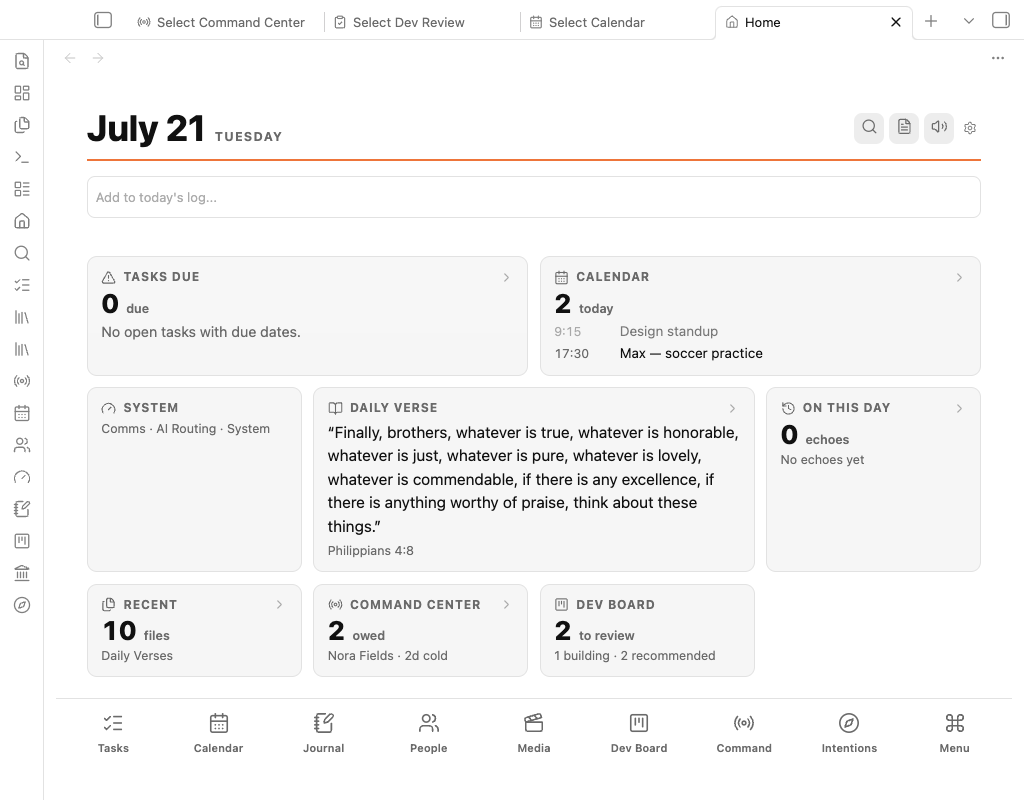
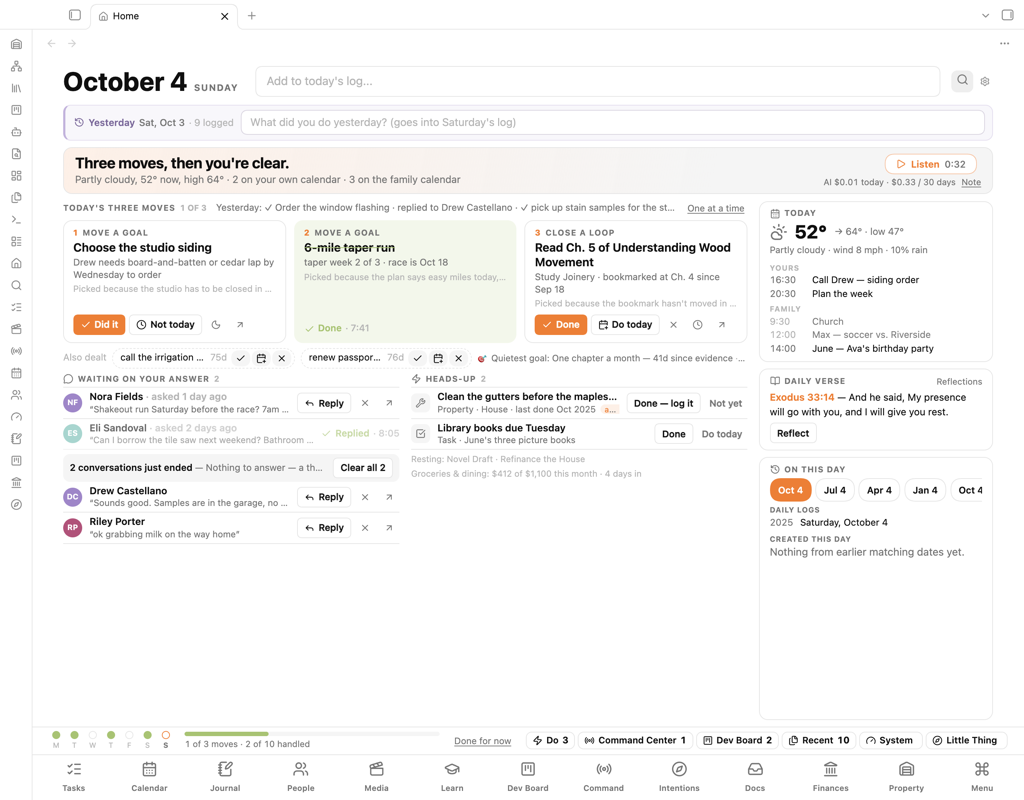
Vault edit auto-published
Source: 6. Notes/Select Showcase Site/ (showcase_publish.py)

diff --git a/SUBSYSTEMS.md b/SUBSYSTEMS.md
@@ -38,6 +38,10 @@ The oldest subsystem and the origin of the whole project. Share a link from any 
 
 ![Media Library](media/media-library.png)
 
+**Theater**, the lean-back player — every saved video, post, and clip in one stage, with stars, tags, and *up next* a tap away:
+
+![Media Log Theater](media/media-theater.png)
+
 > 🎬 coming: phone share → item appears in the library
 
 ## Select Media
@@ -114,9 +118,27 @@ Raw institution exports drop into a watched inbox folder; adapters normalize the
 
 *Everything is an asset.* Every house system, vehicle, appliance, and tool is a plain note with a stable grammar, and the property app is a dossier for each one. The first card on every page answers the question asked while standing in front of the thing — **what does it take?** — filter sizes, oil grade, fuel, battery, with tap-to-copy specs and a *confirm* flag where sources disagree (the page shows the conflict and what would settle it, rather than picking a winner). Official manufacturer manuals sit one tap away on their own card.
 
+![Select Property — What I have](media/property-have.png)
+
+Each thing's dossier leads with what it takes, then its manuals, its age against its typical life, and one timeline of service, issues, and papers:
+
+![Select Property — a dossier](media/property-dossier.png)
+
 Its September app review found it had heard nothing through its own doors in two months, so version 2.0 was rebuilt to **listen**: it notices upkeep in checked tasks, text messages, payments, and filed papers, and asks a single question in the morning brief before going quiet. Then it learned to **see**. A photo texted about an item lands on that item's page; a photo of a rating plate fills in make, model, and serial; a close-up of a filter edge or battery label confirms or corrects the consumable spec — all through one existing vision pass whose fixed output lines are parsed by code, never overwriting a value without a yes. Large purchases from the ledger with no record behind them prompt *start a record?*, and loans show what's still owed.
 
 The last page is **the land**: every map layer, historical aerials back to 1938, recorded walks, and survey lines in one coordinate frame, with tap-to-read elevation and soil; a walkable field guide for finding an old survey's corners; and a history tab that traces ownership back to the original federal land patent from recorded deeds — every source saved locally so a dead link can't erase it, every inference labeled as one.
+
+## Family history
+
+A family tree kept as one standard genealogy file, with a query tool for agents and an app for the tree, pedigree, migration map, and records on desktop and phone. Every change carries an audit trail and a source; disagreeing sources stay open as questions with each side's evidence; and "researched" is kept separate from "proven" — a link is drawn as proven only when an original record stating it has been read. Research agents search free public archives and digitized books directly, with real page citations and a refusal to look up living people.
+
+The whole tree reads across three and a half centuries at once — every direct ancestor on a timeline, colored by whether an original record backs them, with a doubted link drawn dashed until its open question is settled:
+
+![Family history — the whole tree](media/genealogy-tree.png)
+
+The map tells the same family as movement: who was born on one side of the ocean and died on the other, and every line's way west:
+
+![Family history — journeys](media/genealogy-places.png)
 
 ## Intentions
 
@@ -156,5 +178,4 @@ The tour above is the daily core, not the full roster. Sharing the same kit, sty
 - **The Mastermind** — the coaching portal grown into a commitment system: every coach a CRM dossier with sessions, prep, and open promises; commitments have owners (a coach's own promises don't count as the owner's kept word); and AI seats spawn read-only agents that investigate the whole vault from the server.
 - **Select Bible** — a Bible study subsystem: reading tracks, a free-reading interface with verse-tagged notes, and sermon capture — deliberately AI-free in version one, and the first app graded by the new single-app review format.
 - **Server Watch** — the home server takes hourly screenshots of its own console and runs changed frames through a perceptual-diff-then-vision check, because status files only report what code thought to measure.
-- **Family history** — a family tree kept as one standard genealogy file, with a query tool for agents and an app for the tree, pedigree, migration map, and records on desktop and phone. Every change carries an audit trail and a source; disagreeing sources stay open as questions with each side's evidence; and "researched" is kept separate from "proven" — a link is drawn as proven only when an original record stating it has been read. Research agents search free public archives and digitized books directly, with real page citations and a refusal to look up living people.
 - **The Style Guide** — Select's visual languages documented side by side with live specimens, so twenty-five plugins read as one product.

diff --git a/README.md b/README.md
@@ -49,6 +49,12 @@ Every one of these is a live surface used daily, not a demo:
     <td width="25%"><a href="https://cobbenterprises.github.io/select-showcase/SUBSYSTEMS.html#also-in-the-family"><img src="media/marketing-results.png" alt="Select Marketing"/><br/><sub><b>Marketing</b></sub></a></td>
     <td width="25%"><a href="https://cobbenterprises.github.io/select-showcase/SUBSYSTEMS.html#select-menu"><img src="media/select-menu.png" alt="Select Menu"/><br/><sub><b>Select Menu</b></sub></a></td>
   </tr>
+  <tr>
+    <td width="25%"><a href="https://cobbenterprises.github.io/select-showcase/SUBSYSTEMS.html#select-property"><img src="media/property-have.png" alt="Select Property"/><br/><sub><b>Property</b></sub></a></td>
+    <td width="25%"><a href="https://cobbenterprises.github.io/select-showcase/SUBSYSTEMS.html#select-property"><img src="media/property-dossier.png" alt="A Property dossier"/><br/><sub><b>Property dossier</b></sub></a></td>
+    <td width="25%"><a href="https://cobbenterprises.github.io/select-showcase/SUBSYSTEMS.html#family-history"><img src="media/genealogy-tree.png" alt="Family history"/><br/><sub><b>Family history</b></sub></a></td>
+    <td width="25%"><a href="https://cobbenterprises.github.io/select-showcase/SUBSYSTEMS.html#family-history"><img src="media/genealogy-places.png" alt="Family journeys"/><br/><sub><b>Family journeys</b></sub></a></td>
+  </tr>
 </table>
 
 Every pixel above is real plugins over fictional data: screenshots come from a sanitized demonstration vault (a fictional family, fictional finances, fictional messages), never from the live system.
